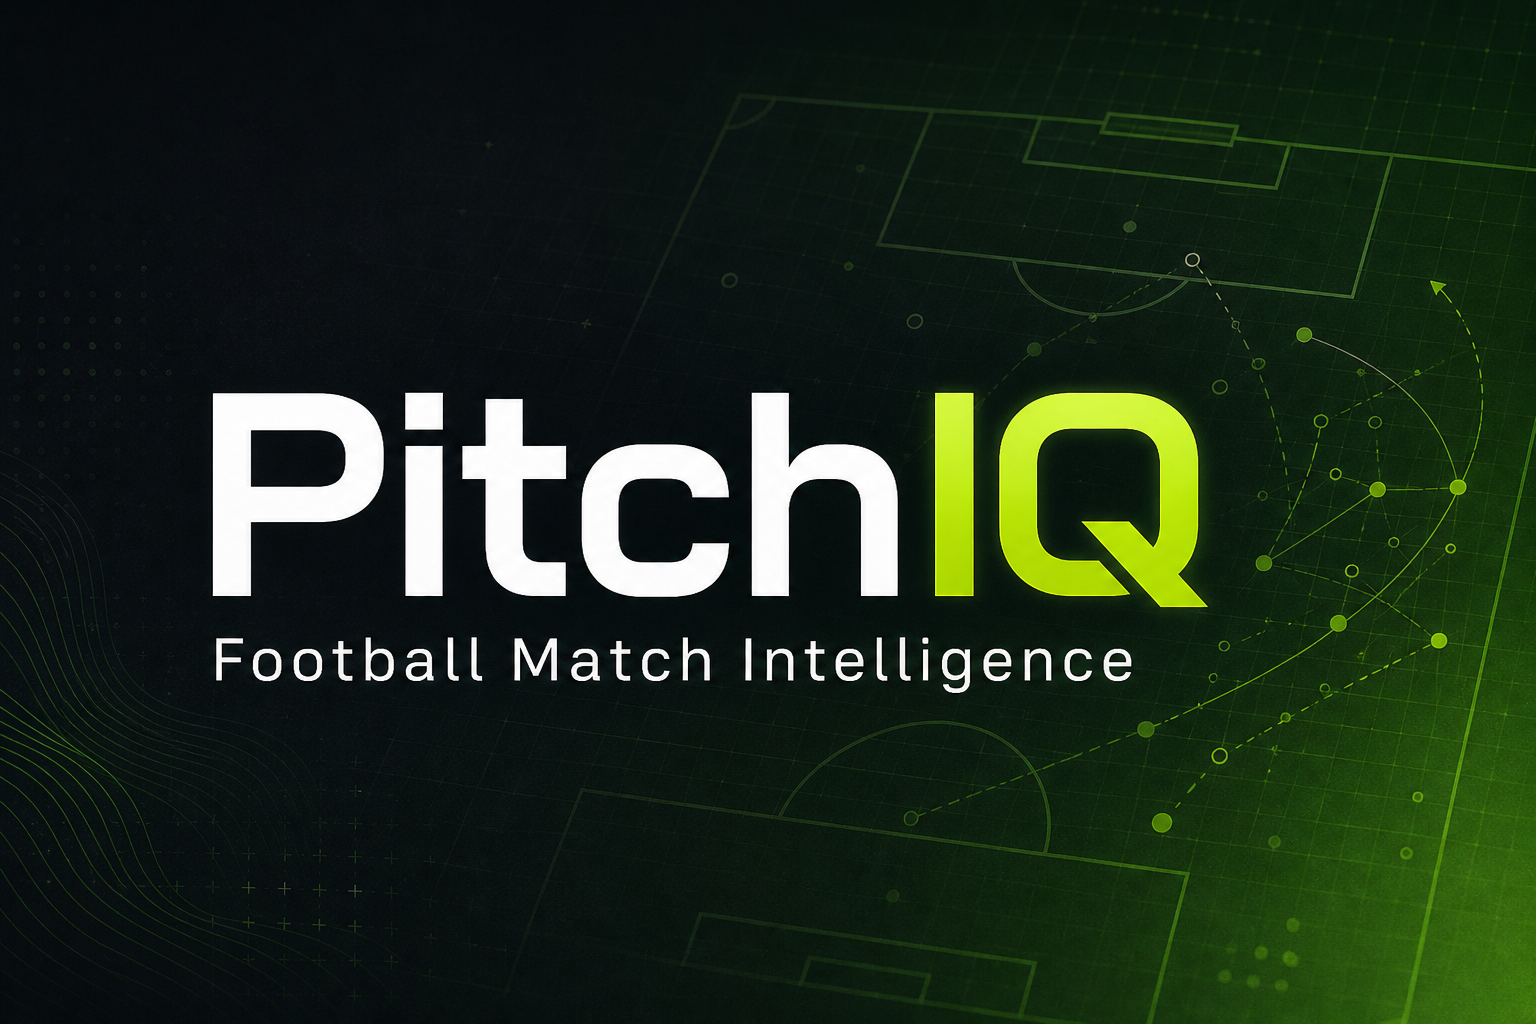
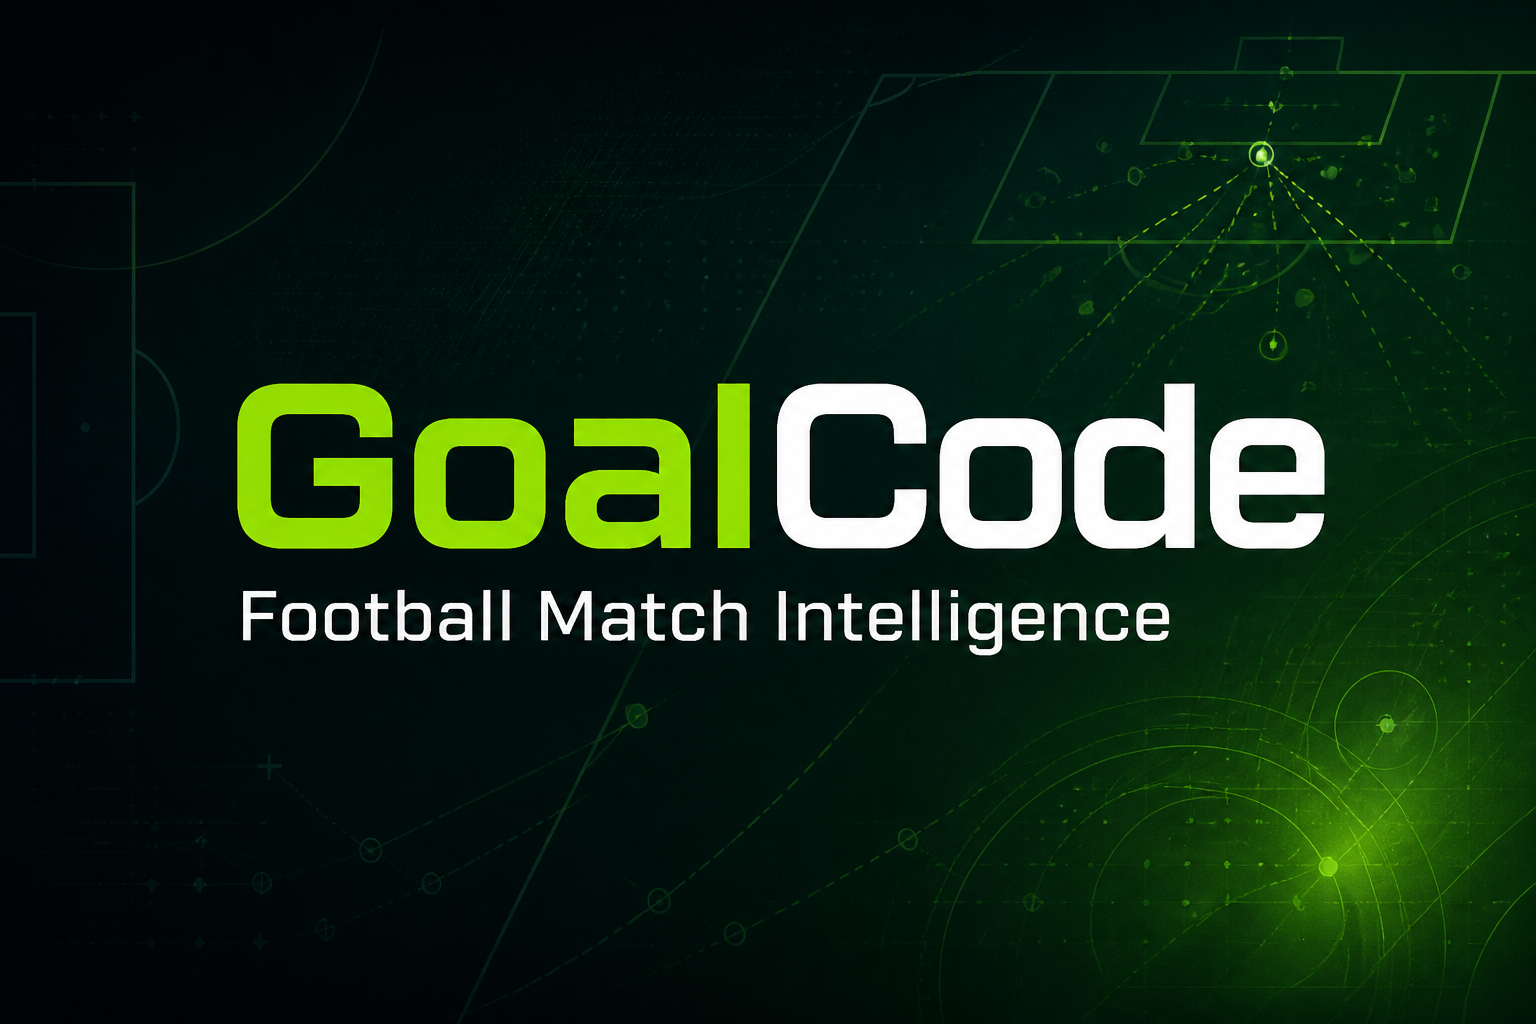
Rename product to GoalCode

diff --git a/app/page.tsx b/app/page.tsx
@@ -67,7 +67,7 @@ export default function Home() {
   return (
     <main>
       <header className="topbar">
-        <a className="brand" href="#" aria-label="PitchIQ home"><span className="brand-mark">P</span><span>PitchIQ</span></a>
+        <a className="brand" href="#" aria-label="GoalCode home"><span className="brand-mark">G</span><span>GoalCode</span></a>
         <nav aria-label="Primary navigation"><a className="active" href="#overview">Overview</a><a href="#analysis">Analysis</a><a href="#players">Players</a></nav>
         <button className="upload-button" onClick={() => { setShowImport(true); setFileMessage(''); }}>＋ Import match</button>
       </header>
@@ -76,7 +76,7 @@ export default function Home() {
         <div className="eyebrow-row"><p className="eyebrow"><span /> Match intelligence lab</p><p className="demo-label">Demo data · Premier League</p></div>
         <div className="match-header">
           <div><p className="match-date">Sunday, 24 August · Full time</p><h1>Arsenal <em>2 — 1</em> Liverpool</h1><p className="venue">Emirates Stadium · London</p></div>
-          <div className="model-chip"><span>MODEL</span><strong>PitchIQ xG v1.0</strong><i>Live</i></div>
+          <div className="model-chip"><span>MODEL</span><strong>GoalCode xG v1.0</strong><i>Live</i></div>
         </div>
 
         <section className="metrics" aria-label="Match metrics">
@@ -128,7 +128,7 @@ export default function Home() {
         <section className="about-section">
           <p className="kicker">THE PROJECT</p>
           <h2>From raw events to a readable match story.</h2>
-          <p>PitchIQ is an interactive football analytics lab that turns shot and event data into expected-goals models, shot maps, momentum patterns, player impact rankings, and plain-language tactical insights. It is designed for analysts, coaches, scouts, journalists, and curious supporters who want to understand not only what happened—but why.</p>
+          <p>GoalCode is an interactive football analytics lab that turns shot and event data into expected-goals models, shot maps, momentum patterns, player impact rankings, and plain-language tactical insights. It is designed for analysts, coaches, scouts, journalists, and curious supporters who want to understand not only what happened—but why.</p>
           <div className="feature-list"><span>01 · Explore chances</span><span>02 · Compare teams</span><span>03 · Import data</span><span>04 · Explain the match</span></div>
         </section>
       </section>
@@ -137,7 +137,7 @@ export default function Home() {
         <section className="import-modal" role="dialog" aria-modal="true" aria-labelledby="import-title" onMouseDown={e => e.stopPropagation()}>
           <button className="modal-close" aria-label="Close import dialog" onClick={() => setShowImport(false)}>×</button>
           <p className="kicker">MATCH DATA</p><h2 id="import-title">Import a shot map</h2>
-          <p>Upload a CSV with one shot per row. PitchIQ will instantly redraw the map and recalculate the xG totals.</p>
+          <p>Upload a CSV with one shot per row. GoalCode will instantly redraw the map and recalculate the xG totals.</p>
           <label className="dropzone"><strong>Choose a CSV file</strong><span>team, player, left, top, xg, result, minute</span><input type="file" accept=".csv,text/csv" onChange={importCsv} /></label>
           <a className="sample-link" href="/sample-shots.csv" download>↓ Download sample CSV</a>
           {fileMessage && <p className={`file-message ${fileMessage.includes('success') ? 'success' : ''}`}>{fileMessage}</p>}

diff --git a/app/layout.tsx b/app/layout.tsx
@@ -14,16 +14,16 @@ const geistMono = Geist_Mono({
 
 export const metadata: Metadata = {
   metadataBase: new URL(process.env.SITE_URL ?? 'http://localhost:3000'),
-  title: 'PitchIQ — Football Match Intelligence',
+  title: 'GoalCode — Football Match Intelligence',
   description: 'Turn match events into clear shot maps, expected goals, and tactical insights.',
   openGraph: {
-    title: 'PitchIQ — Football Match Intelligence',
+    title: 'GoalCode — Football Match Intelligence',
     description: 'Turn match events into clear shot maps, expected goals, and tactical insights.',
-    images: [{ url: '/og.png', width: 1536, height: 1024, alt: 'PitchIQ Football Match Intelligence' }],
+    images: [{ url: '/og.png', width: 1536, height: 1024, alt: 'GoalCode Football Match Intelligence' }],
   },
   twitter: {
     card: 'summary_large_image',
-    title: 'PitchIQ — Football Match Intelligence',
+    title: 'GoalCode — Football Match Intelligence',
     description: 'Turn match events into clear shot maps, expected goals, and tactical insights.',
     images: ['/og.png'],
   },
